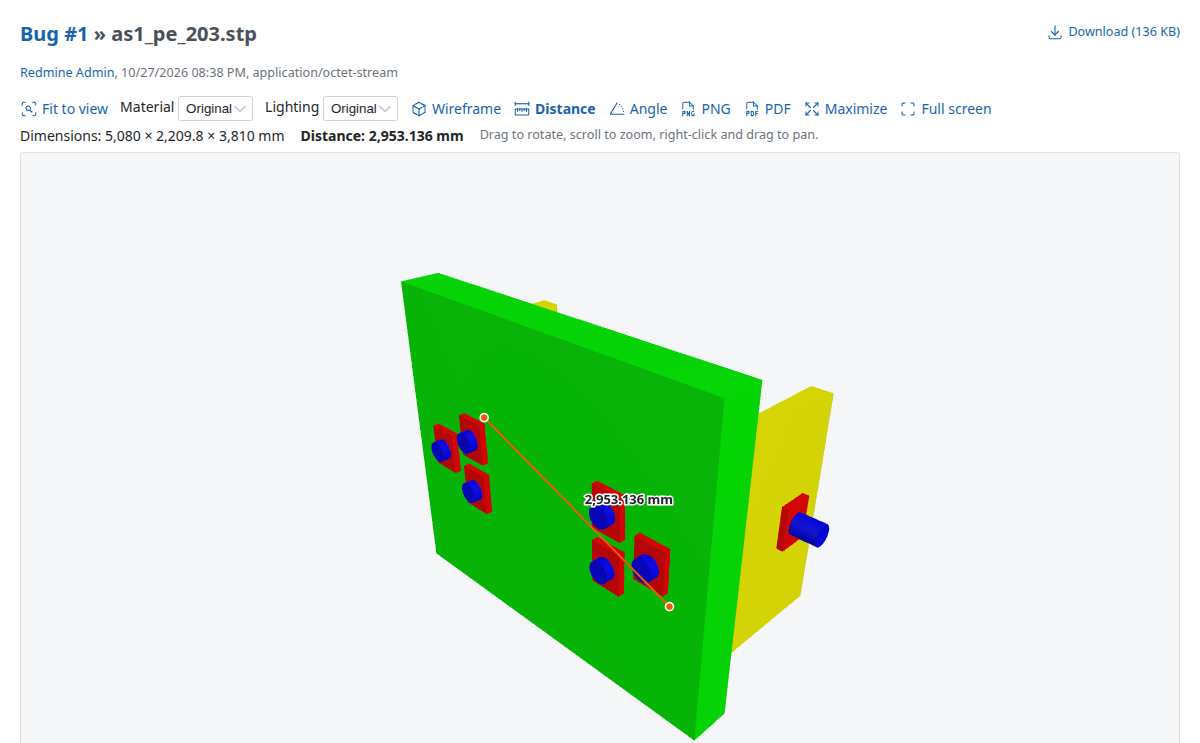
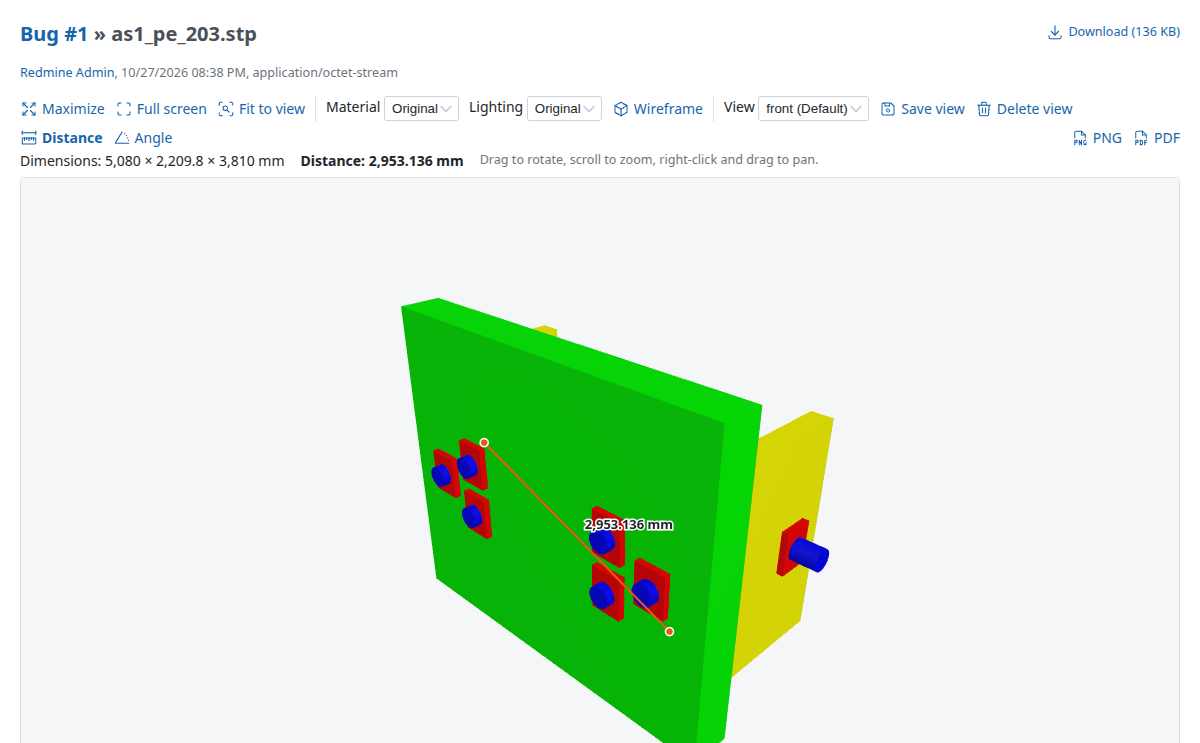
Describe the saved views in the README
Features, permissions, the migration for the installation and the uninstallation, the Ruby and REST API of the views, and new screenshots with the grouped toolbar.

Refs #3

Changed region(s): [[0.3083, 0.3715, 0.7092, 1.0], [0.0, 0.1238, 0.8942, 0.2476], [0.8942, 0.1548, 0.9867, 0.2167]]

diff --git a/README.md b/README.md
@@ -13,7 +13,8 @@ This plugin shows CAD attachments directly in Redmine: 3D models can be rotated,
 - **In the browser**: The files are displayed by a viewer that runs in the browser (three.js, OpenCASCADE as WebAssembly, dxf-viewer). The libraries are included in the plugin, so no internet access is needed.
 - **Files stay in Redmine**: The browser loads the file from Redmine with the same permissions as a download. No file is sent to a third party.
 - **DWG on the server**: DWG files are converted to DXF on the server with [LibreDWG](https://www.gnu.org/software/libredwg/). The conversion runs in the background right after the upload, so the preview is ready when it is opened.
-- **Thumbnails**: The thumbnails in the attachment lists are made from the image that CAD programs save in the file (Inventor, Solid Edge, SolidWorks, FreeCAD, 3MF, DXF, DWG). For files without image, the browser sends a snapshot of the viewer when the preview is opened for the first time by a user who can edit the attachment.
+- **Thumbnails**: The thumbnails in the attachment lists are made from the image of the default view, if the attachment has one. Otherwise they are made from the image that CAD programs save in the file (Inventor, Solid Edge, SolidWorks, FreeCAD, 3MF, DXF, DWG). For files without image, the browser sends a snapshot of the viewer when the preview is opened for the first time by a user who can edit the attachment.
+- **Saved views**: The views are stored in the database, their images as attachments of the views in the `files` directory of Redmine.
 
 ## 🌟 Features
 
@@ -23,14 +24,15 @@ This plugin shows CAD attachments directly in Redmine: 3D models can be rotated,
 - **Thumbnails** – CAD attachments get thumbnails in the attachment lists, like images (with ImageMagick, if thumbnails are enabled in the Redmine settings)
 - **File icons** – 3D models and 2D drawings get their own icons in the attachment lists, from Redmine 7.0 (which shows file type icons there). Redmine 7.0 only passes the content type, so only files with a CAD content type get the icons there, e.g. DWG, DXF, STL and IGES. Redmine trunk also passes the filename, so all CAD files get the icons. Icons of the theme are used first.
 - **Viewer controls** – Rotate, zoom, pan, fit to view, wireframe
+- **Saved views** – Save the current view (camera, material, lighting, wireframe) under a name, e.g. `front` or `detail`, and restore it from the toolbar. The default view of an attachment is restored when the preview is opened, and its image is the thumbnail of the attachment. Each view is saved with an image without background, cropped to the model or drawing. For 3D models and 2D drawings, in issues, documents, files, wiki pages and news.
 - **Material and lighting** – 3D models can be shown with their original or with matte materials, and with the original lighting or studio lighting. The studio lighting adds reflections, so that metallic models (e.g. glTF) are not displayed dark. The file is not changed.
 - **Measuring** – Overall dimensions of the model or drawing, distance between two points and angle between three points (without snapping). The unit is taken from the file where it is known (STEP, IGES, BREP: mm, glTF: m, DXF: `$INSUNITS`).
-- **Download of the current view** – As PNG image or PDF (A4) with the measurement, the file name and the dimensions. Created in the browser, without an additional library.
+- **Download of the current view** – As PNG image or PDF (A4) with the measurement, the file name and the dimensions. Created in the browser, without an additional library. The file name contains the name of the saved view if the view has not been changed.
 - **Maximize and full screen** – Maximize the viewer to the browser window (remembered in the browser) or switch to full screen
 - **Background conversion of DWG files** – Started after the upload. A failed conversion is attempted at most twice, so opening the preview does not start a new conversion every time.
 - **Settings** – Previewed formats, maximum file size, default material and lighting, DWG converter command and timeout
-- **API for other plugins** – Other plugins can set the material and lighting of an attachment, and save and restore the view of the viewer (see [API for other plugins](#-api-for-other-plugins))
-- **No migration and no additional gems**
+- **API for other plugins** – Other plugins can set the material and lighting of an attachment, read and save the views of attachments in Ruby or with the REST API, and save and restore the view of the viewer in JavaScript (see [API for other plugins](#-api-for-other-plugins))
+- **No additional gems**
 
 ## 📸 Screenshots
 
@@ -52,6 +54,15 @@ Configure the plugin under **Administration → Plugins → Redmine CAD Preview 
 | Conversion timeout            | Maximum time of a DWG conversion in seconds (default: 30)                   |
 
 The settings page shows whether the DWG converter is available. Without it, DWG files are not previewed, and all other formats still work.
+
+## 🔐 Permissions
+
+The views of an attachment can be seen and restored by all users who can see the attachment. Saving, changing and deleting views needs one of these permissions of the roles (**Administration → Roles and permissions**, section "Project"):
+
+| Permission | Description |
+| --- | --- |
+| Save views of own CAD attachments | Views of the attachments the user has added |
+| Save views of all CAD attachments | Views of all attachments the user can see |
 
 ## 📐 DWG conversion with LibreDWG
 
@@ -84,6 +95,7 @@ The conversion runs as an Active Job. With the default queue adapter of Redmine,
 - **Measuring**: Points are picked on the surface of the model or anywhere in the drawing, without snapping to edges or end points. STL, OBJ and 3MF files have no unit, so measurements are shown in "units".
 - **Autodesk Inventor, Solid Edge and SolidWorks**: Only the preview image saved in the file is shown, the model itself cannot be read without these programs. Export the model as STEP to view it in 3D. The image is the view of the last save.
 - **.asm files** are only treated as Solid Edge assemblies if they are OLE compound files, so that assembler source files are not affected.
+- **Saved views** belong to the attachment, so the same file attached twice has its own views each time. When an issue or a project is copied, the attachments are copied without their views.
 
 ## 📋 Requirements
 
@@ -99,7 +111,12 @@ The conversion runs as an Active Job. With the default queue adapter of Redmine,
 cd $REDMINE_ROOT/plugins
 git clone https://github.com/flowalchs/redmine_cad_preview.git
 ```
-Restart your Redmine server to load the plugin. No database migration and no `bundle install` are needed, as the plugin has no Gemfile.
+Run the database migration of the plugin and restart your Redmine server. No `bundle install` is needed, as the plugin has no Gemfile.
+
+```bash
+cd $REDMINE_ROOT
+bundle exec rake redmine:plugins:migrate NAME=redmine_cad_preview RAILS_ENV=production
+```
 
 ## 🔌 API for other plugins
 
@@ -114,6 +131,31 @@ end
 ```
 
 `material_mode` can be `original` or `matte`, `lighting` can be `original` or `studio`. Other keys and values are ignored. Register the provider in `after_plugins_loaded`, as this plugin can be loaded after yours.
+
+### Saved views in Ruby
+
+```ruby
+view = RedmineCadPreview::Views.find(attachment, 'front')  # or Views.default(attachment), Views.all(attachment)
+view.state           # the state of the viewer (Hash, see exportView below)
+view.image.diskfile  # the PNG image of the view
+view.revision        # increased each time the view is saved
+view.stale?          # true if the attachment has changed since the view was saved
+```
+
+`Views.save(attachment, name, user:, revision:, state:, image:, is_default:)` saves a view and `Views.delete(attachment, name, revision:)` deletes it. The revision that was read is needed to change a view, otherwise `RedmineCadPreview::Views::Conflict` is raised. The permissions are not checked by these methods; `CadPreviewView.editable?(attachment, user)` tells whether a user can save views.
+
+### Saved views with the REST API
+
+With the REST API enabled (**Administration → Settings → API**) and an API key, like the API of Redmine:
+
+| Request | Description |
+| --- | --- |
+| `GET /cad_previews/:id/views.json` | Views of the attachment with name, default, revision, stale, state, image (id and `content_url`) and user |
+| `GET /cad_previews/:id/views/:name.json` | One view |
+| `PUT /cad_previews/:id/views/:name.json` | Saves a view: `{"view": {"state": {...}, "image": "<PNG, Base64 encoded>", "is_default": true, "revision": 3}}`. A new view needs the state and the image, an existing view the revision that was read. |
+| `DELETE /cad_previews/:id/views/:name.json?revision=3` | Deletes a view |
+
+A view that was changed or deleted in the meantime returns `409 Conflict`. The image is at most 1600 × 1600 pixels and is downloaded with the attachments API of Redmine (`content_url`). The viewer uses the same URLs without `.json` with the session of the user, so it does not need the REST API.
 
 ### JavaScript
 
@@ -183,7 +225,14 @@ To update a library by hand, change the version in `package.json`, then run `npm
 
 ## ❌ Uninstall
 
-Remove the directory `plugins/redmine_cad_preview` and restart your Redmine server. The converted DWG files in `files/derived_cache/cad_previews` can be deleted.
+Revert the database migration of the plugin, which deletes the saved views with their images and the converted DWG files and images in `files/derived_cache/cad_previews`:
+
+```bash
+cd $REDMINE_ROOT
+bundle exec rake redmine:plugins:migrate NAME=redmine_cad_preview VERSION=0 RAILS_ENV=production
+```
+
+Then remove the directory `plugins/redmine_cad_preview` and restart your Redmine server.
 
 ## 📜 License
 
